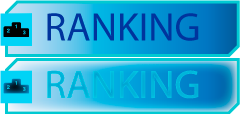
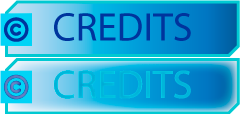
Ajustados botoes tela

diff --git a/src/game/scenes/MainMenu.java b/src/game/scenes/MainMenu.java
@@ -32,11 +32,14 @@ public class MainMenu extends Scene {
 		
 		// buttons
 		getObjsInScene().add(new Button("startButton.png", posX1, posY1, 1, 2, GameStates.Loading));
-		getObjsInScene().add(new Button("creditsButton.png", posX1, posY2, 1, 2, GameStates.Ranking));
-		getObjsInScene().add(new Button("helpButton.png", posX2, posY1, 1, 2, GameStates.Help));
+		getObjsInScene().add(new Button("creditsButton.png", posX1, posY2, 1, 2, GameStates.Credits));
+		getObjsInScene().add(new Button("rankingButton.png", posX2, posY1, 1, 2, GameStates.Ranking));
+		getObjsInScene().add(new Button("helpButton.png", posX2, posY2, 1, 2, GameStates.Help));
 		//ranking button
 		
-		getObjsInScene().add(new Button("exitButton.png", posX2, posY2, 1, 2, GameStates.Exit));
+		Button exit = new Button("exitButton.png", 500, 500, 1, 2, GameStates.Exit);
+		exit.setPosTopRight(10,10);
+		getObjsInScene().add(exit);
 
 	}
 	

diff --git a/src/game/scenes/Help.java b/src/game/scenes/Help.java
@@ -2,6 +2,7 @@ package game.scenes;
 
 import java.awt.event.KeyEvent;
 
+import br.senai.sc.engine.Utils;
 import game.AnimatedObject;
 import game.Button;
 import game.GameObject;
@@ -13,7 +14,9 @@ public class Help extends Scene{
 	public Help(){
 		getObjsInScene().add(new AnimatedObject("background/helpBackground.jpg", 0, 0,1,1));
 		
-		getObjsInScene().add(new Button("exitButton.png", 500, 500, 1, 2, GameStates.Exit));
+		Button exit = new Button("exitButton.png", 500, 500, 1, 2, GameStates.MainMenu);
+		exit.setPosTopRight(10,10);
+		getObjsInScene().add(exit);
 
 		
 				

diff --git a/src/game/JetpackGame.java b/src/game/JetpackGame.java
@@ -3,6 +3,7 @@ package game;
 import game.scenes.Credits;
 import game.scenes.GameOver;
 import game.scenes.Gameplay;
+import game.scenes.Help;
 import game.scenes.MainMenu;
 import game.scenes.Opening;
 import game.scenes.Ranking;
@@ -68,6 +69,7 @@ public class JetpackGame extends Game {
 		
 
 		menu = new MainMenu();
+		help = new Help();
 		credits = new Credits();
 		LevelManager.getInstance().setLevelFiles("level_1,level1,level2,level1,level_1,level_3");
 		opening = new Opening();

diff --git a/src/game/scenes/Credits.java b/src/game/scenes/Credits.java
@@ -14,8 +14,10 @@ public class Credits extends Scene {
 	public Credits() {
 		
 		getObjsInScene().add(new AnimatedObject("bgImage.png", 0, 0, 1, 1));
-		getObjsInScene().add(new Button("exitButton.png", 0, 0, 1, 2, GameStates.MainMenu));
-		getObjsInScene().add(new AnimatedObject("coinssonic.png", 300, 100, 4, 4));		
+		
+		Button exit = new Button("exitButton.png", 500, 500, 1, 2, GameStates.MainMenu);
+		exit.setPosTopRight(10,10);
+		getObjsInScene().add(exit);
 		
 	}
 	

diff --git a/src/game/scenes/Ranking.java b/src/game/scenes/Ranking.java
@@ -24,7 +24,7 @@ public class Ranking extends Scene{
 
 		getObjsInScene().add(new AnimatedObject("background/rankingBackground.jpg", 0, 0, 1, 1));
 		
-		Button exit = new Button("exitButton.png", 500, 500, 1, 2, GameStates.Exit);
+		Button exit = new Button("exitButton.png", 500, 500, 1, 2, GameStates.MainMenu);
 		exit.setPosTopRight(10,10);
 		getObjsInScene().add(exit);
 
